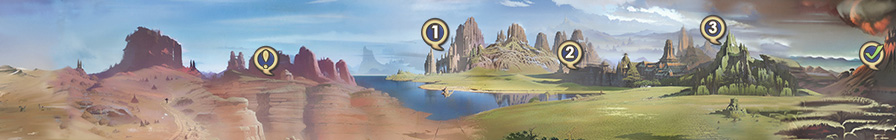
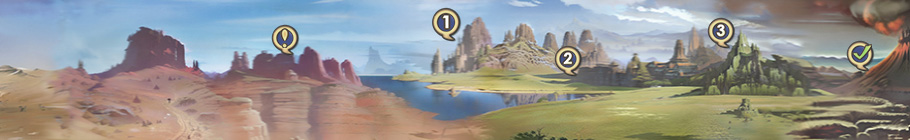
Added new images for the nav bar and home page backgrounds and world map buttons
Added new images for the nav bar and home page backgrounds and world map buttons

diff --git a/frontend/src/containers/WorldNav.js b/frontend/src/containers/WorldNav.js
@@ -42,7 +42,7 @@ class WorldNav extends Component {
             return expansion.map(r => {
                 let region_nav_icon = `../nav_bar/${r.split(' ').join('')}NavTab.png`
                 let region_link = r.split(' ').join('').toLowerCase();
-                return <NavDropdown key={r} title={<Image src={region_nav_icon} style={{width: '8vw', height: 30}} />} 
+                return <NavDropdown key={r} title={<Image src={region_nav_icon} style={{width: '8vw'}} />} 
                 id='basic-nav-dropdown' style={{padding: 0}} >
                     <NavDropdown.Item as='div' key={r} className='bg-homepagebg'>
                         <Link to={`/${region_link}`} >
@@ -85,61 +85,54 @@ class WorldNav extends Component {
         this.state.hovered && this.state.button_name === 'world' ? world_icon = 'WorldButtonHover' : world_icon = 'WorldButton';
 
         return (
-            <Container fluid style={{paddingTop: 0, paddingBottom: 0}}>
-                <Row> 
-                    <Col md={3} className='bg-darkbg' style={{padding: 0}}>
-                        <Image src={this.props.logo_url} style={{width: '100%', height: 140}} />
-                    </Col>
-                    <Col md={6} className='bg-navbarbg' style={{padding: 0, }}>
-                        <Card className='border-0' style={{height: '100%'}} > 
-                            <Card.Img src='../nav_bar/NavBarMiddle.jpg' alt='toggle'
-                            style={{height: '100%'}}/>
-                            <Card.ImgOverlay style={{paddingLeft: 10, paddingBottom: 0}} 
-                            className='d-flex align-items-end'>
-                                <Row >
-                                    <Navbar  style={{padding: 0}} className='d-flex align-items-end'>
-                                        <OverlayTrigger placement='top' overlay={<Tooltip id="button-tooltip-2" >
-                                            Navigate to Home Page
-                                            </Tooltip>} >
-                                            <Link to='/'
-                                            onMouseEnter={(event) => {
-                                                this.setState({hovered: true, button_name: event.target.name});
-                                            }}
-                                            onMouseLeave={() => {
-                                                this.setState({hovered: false});
-                                            }}>
-                                                <Image src={`../icons/nav_icons/${home_icon}.png`} 
-                                                style={{width: '2.5vw', paddingRight: 5}} name='home' />
-                                            </Link>
-                                        </OverlayTrigger>
-                                        <OverlayTrigger placement='top' overlay={<Tooltip id="button-tooltip-2" >
-                                            Navigate to World Map
-                                            </Tooltip>} >
-                                            <Link to='/world'
-                                            onMouseEnter={(event) => {
-                                                this.setState({hovered: true, button_name: event.target.name});
-                                            }}
-                                            onMouseLeave={() => {
-                                                this.setState({hovered: false});
-                                            }}>
-                                                <Image src={`../icons/nav_icons/${world_icon}.png`} 
-                                                style={{width: '2.5vw', paddingLeft: 5}} name='world' />
-                                            </Link>
-                                        </OverlayTrigger>
-                                        <RegionDropdown renderDropdowns={this.renderNavDropdowns}  region='original' />
-                                        {/* <RegionDropdown renderDropdowns={this.renderNavDropdowns}  region='heavensward' />
-                                        <RegionDropdown renderDropdowns={this.renderNavDropdowns}  region='stormblood' />
-                                        <RegionDropdown renderDropdowns={this.renderNavDropdowns}  region='shadowbringers' />
-                                        <RegionDropdown renderDropdowns={this.renderNavDropdowns}  region='endwalker' /> */}
-                                    </Navbar>
-                                </Row>
-                            </Card.ImgOverlay>
-                        </Card>
-                    </Col>
-                    <Col md={3} className='bg-darkbg' style={{padding: 0}}>
-                        <Image src='../nav_bar/NavBarRight.jpg' style={{width: '100%', height: 140}}/>
-                    </Col>
-                </Row>
+            <Container fluid style={{padding: 0}}>
+                <Card className='border-0' style={{width: '100%', padding: 0}}> 
+                    <Card.Img src='../nav_bar/NavBar.jpg' alt='toggle' style={{padding: 0, width: '100%'}} />
+                    <Card.ImgOverlay style={{padding: 0, width: '100%', height: '100%'}} className='d-flex align-items-end'>
+                        <Row  style={{width: '100%', padding: 0}} >
+                            <Col md={3} style={{width: '25%', padding: 0}}>
+                                <Image src='../nav_bar/logos/HelperQuest_Logo.png' style={{width: '100%'}}/>
+                            </Col>
+                            <Col md={6} className='d-flex align-items-end' style={{paddingLeft: 30}}>
+                                <Navbar className='d-flex align-items-end' style={{padding: 0}}>
+                                    <OverlayTrigger placement='top' overlay={<Tooltip id="button-tooltip-2" >
+                                        Navigate to Home Page
+                                        </Tooltip>} >
+                                        <Link to='/'
+                                        onMouseEnter={(event) => {
+                                            this.setState({hovered: true, button_name: event.target.name});
+                                        }}
+                                        onMouseLeave={() => {
+                                            this.setState({hovered: false});
+                                        }}>
+                                            <Image src={`../icons/nav_icons/${home_icon}.png`} 
+                                            style={{width: '2.5vw', paddingRight: 5}} name='home' />
+                                        </Link>
+                                    </OverlayTrigger>
+                                    <OverlayTrigger placement='top' overlay={<Tooltip id="button-tooltip-2" >
+                                        Navigate to World Map
+                                        </Tooltip>} >
+                                        <Link to='/world'
+                                        onMouseEnter={(event) => {
+                                            this.setState({hovered: true, button_name: event.target.name});
+                                        }}
+                                        onMouseLeave={() => {
+                                            this.setState({hovered: false});
+                                        }}>
+                                            <Image src={`../icons/nav_icons/${world_icon}.png`} 
+                                            style={{width: '2.5vw', paddingLeft: 5}} name='world' />
+                                        </Link>
+                                    </OverlayTrigger>
+                                    <RegionDropdown renderDropdowns={this.renderNavDropdowns}  region='original' />
+                                    {/* <RegionDropdown renderDropdowns={this.renderNavDropdowns}  region='heavensward' />
+                                    <RegionDropdown renderDropdowns={this.renderNavDropdowns}  region='stormblood' />
+                                    <RegionDropdown renderDropdowns={this.renderNavDropdowns}  region='shadowbringers' />
+                                    <RegionDropdown renderDropdowns={this.renderNavDropdowns}  region='endwalker' /> */}
+                                </Navbar>
+                            </Col>
+                        </Row>
+                    </Card.ImgOverlay>
+                </Card>
             </Container>
         )
     }

diff --git a/frontend/src/containers/Info.js b/frontend/src/containers/Info.js
@@ -6,6 +6,7 @@ import Col from 'react-bootstrap/esm/Col';
 import Image from 'react-bootstrap/esm/Image';
 import OverlayTrigger from 'react-bootstrap/esm/OverlayTrigger';
 import Tooltip from 'react-bootstrap/esm/Tooltip';
+import Card from 'react-bootstrap/Card';
 
 class Info extends Component {
 
@@ -19,21 +20,17 @@ class Info extends Component {
     render() {
         let world_map_button = ' ';
 
-        this.state.hovered ? world_map_button = '../home_page/WorldButtonHover.jpg' 
-        : world_map_button = '../home_page/WorldButton.jpg';
+        this.state.hovered ? world_map_button = '../home_page/WorldButtonHover.png' 
+        : world_map_button = '../home_page/WorldButton.png';
 
         return (
-            <Container style={{padding: 0, width: '90%'}}>
-                <br></br>
-                <Row>
-                    <Image style={{height: '100%', padding: 0}} src='../home_page/HomePageTop.jpg' />
-                </Row>
-                <Row>
-                    <Col style={{padding: 0}}>
-                        <Image style={{height: '100%', width: '100%'}} src='../home_page/HomePageTriston.jpg' />
-                    </Col>
-                    <Col md={2} style={{padding: 0}}>
-                        <OverlayTrigger placement='left' overlay={<Tooltip id="button-tooltip-2">
+            <Container style={{padding: 0, width: '100%', height: '100%'}} 
+                className='d-flex align-items-center justify-content-center'>
+                <Card className='border-0' style={{width: '90%'}}>
+                <Card.Img src='../home_page/HomePageComic.jpg' alt='toggle' />
+                    <Card.ImgOverlay style={{padding: 0}} className='d-flex align-items-end justify-content-center'>
+                    <Col style={{padding: 0}} className='d-flex align-items-end justify-content-center'>
+                        <OverlayTrigger placement='left' overlay={<Tooltip id="button-tooltip-2" >
                             Navigate to World Map
                             </Tooltip>} >
                             <Link to='/world'
@@ -43,14 +40,13 @@ class Info extends Component {
                             onMouseLeave={() => {
                                 this.setState({hovered: false});
                             }}>
-                                <Image src={world_map_button} style={{height: '100%', width: '100%'}} name='world' />
+                                <Image src={world_map_button} name='world' style={{width: '9.5vw'}} />
                             </Link>
                         </OverlayTrigger>
                     </Col>
-                    <Col style={{padding: 0}} >
-                        <Image style={{height: '100%', width: '100%'}} src='../home_page/HomePageEadin.jpg' />
-                    </Col>
-                </Row>
+                    </Card.ImgOverlay>
+                </Card>
+                
             </Container>
         )
     }

diff --git a/frontend/src/containers/Home.js b/frontend/src/containers/Home.js
@@ -57,7 +57,7 @@ class Home extends Component {
                         <Col md={6} sm={12} xs={12} style={{padding: 0}} className='bg-homepagebg'>
                             <Outlet />
                         </Col>
-                        <Col className='bg-questinfobg' style={{overflowY: 'scroll', height: '825px', padding: 0}} xs={12}
+                        <Col className='bg-questinfobg' style={{height: '825px', padding: 0}} xs={12}
                         sm={12} md={3} >
                             <Card style={{height: '100%'}}> 
                                 <Card.Img src='../icons/ui_components/QuestInfoContainerBg.jpg' alt='toggle'
